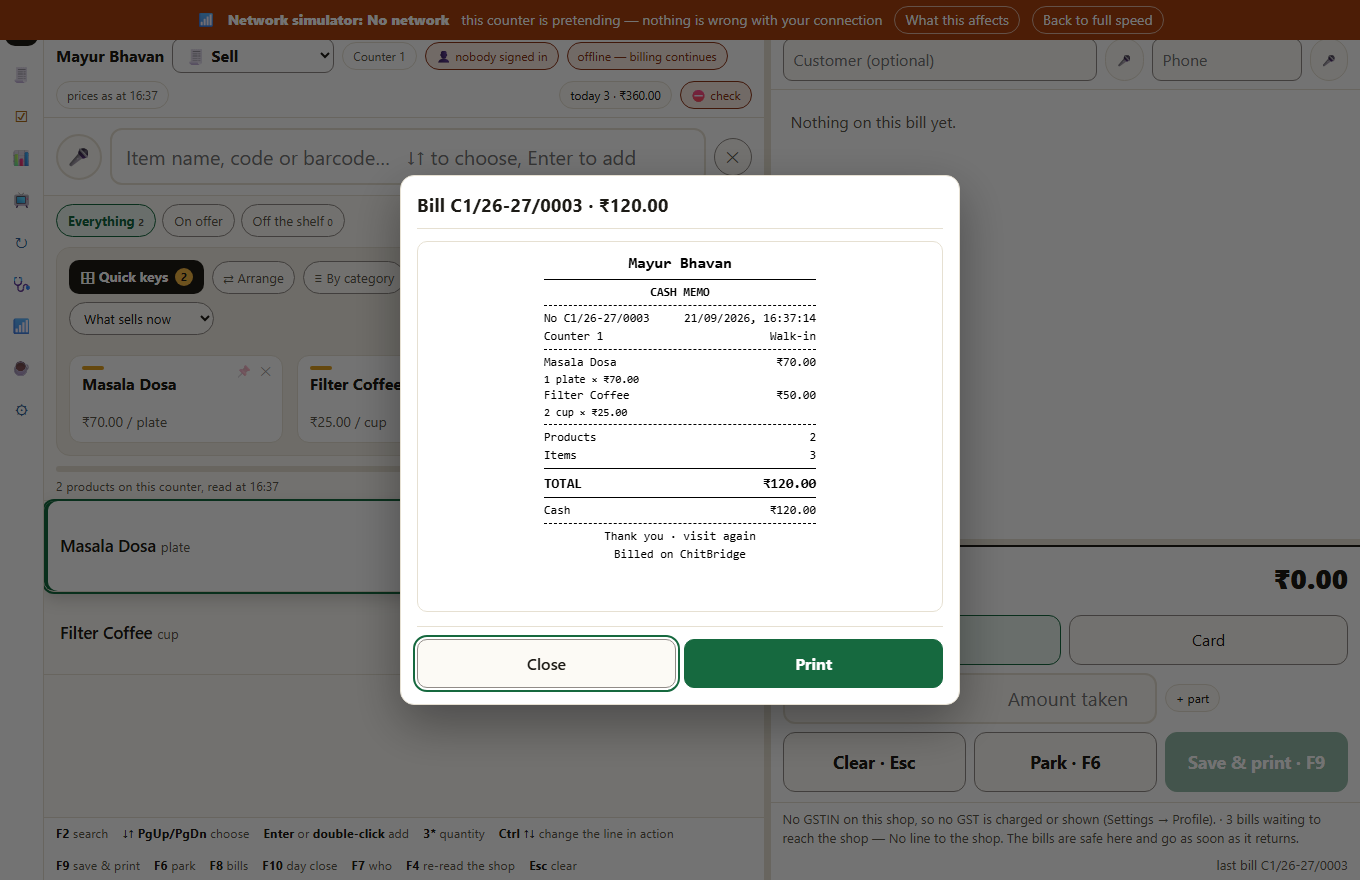
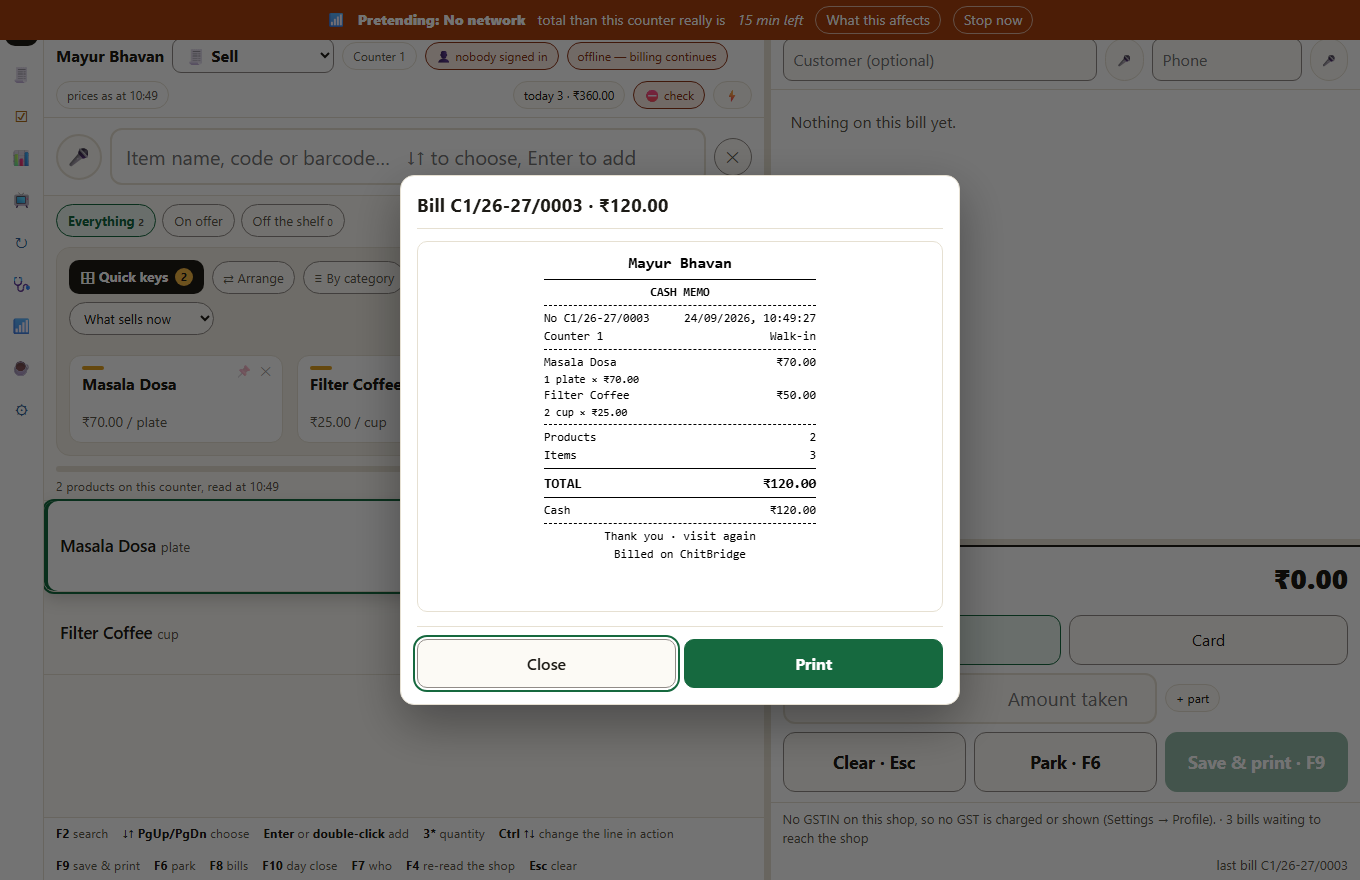
Phase 4.1: vendor lineUp(), new till-lineup.cjs test
Vendored till.html from chitbridge-api (lineUp() migration). Added
e2e/till-lineup.cjs, the dedicated before/after test for this item: proves
navigator.onLine can stay true while three real sends fail and the page
still believes the line is down (hub chip, CloudHost.tillGet skip the
doomed fetch), and that a real interface drop still overrides a good
recent run. Updated till-netsim.cjs's stale "34 places" comment to match.
Screenshot diffs are from re-running the harnesses, not content changes.

Claude-Session: https://claude.ai/code/session_017uqXYS4i4jpqCE9pJcP691

diff --git a/public/till.html b/public/till.html
@@ -4193,9 +4193,11 @@ function netNow(){ var k = ls.get(netKey(), 'full'); return NETS[k] ? k : 'full'
 function netIs(){ return NETS[netNow()]; }
 
 /**
- * ⚠⚠ navigator.onLine IS OVERRIDDEN, and that is what makes this faithful. The page asks it in 34 places
- * — whether to queue a bill, whether to offer Send now, whether to try at all. Slowing fetch alone would leave
- * every one of them believing the line was fine, and produce behaviour no real outage causes.
+ * ⚠⚠ navigator.onLine IS OVERRIDDEN, and that is what makes this faithful. Whether to queue a bill, whether
+ * to offer Send now, whether to try at all — almost every one of those now asks lineUp() (Phase 4.1), not this
+ * flag directly, but lineUp() and lineState() still bottom out on it as the hard "no interface" floor, so the
+ * override is exactly as load-bearing as before. Slowing fetch alone would leave every one of them believing
+ * the line was fine, and produce behaviour no real outage causes.
  * ⚠ Installed ONCE and only when needed; the original is kept so full speed is genuinely the browser's own.
  */
 var NET_REAL_ONLINE = null;
@@ -4475,7 +4477,7 @@ var CloudHost = {
       return { count: count2, total: total2, by: by2, refunds: back2 };
     })();
     var by = t.by, total = t.total, count = t.count, back = t.refunds;
-    return { snapshot: snap || null, online: navigator.onLine && !!this.key, queued: queue.length,
+    return { snapshot: snap || null, online: lineUp() && !!this.key, queued: queue.length,
              today: { count: count, total: total, by: by, returns: r2(back) },
              till: { id: ls.get('cb_till_id','C1'), name: ls.get('cb_till_name','Counter 1'), host: 'this device' },
              engines: { offers: !!window.CBOffers, tax: !!window.CBTax, search: !!window.CBSearch, gs1: !!window.CBGS1, lots: !!window.CBLots, nums: !!window.CBNums, rewards: !!window.CBRewards } };
@@ -4593,7 +4595,7 @@ var CloudHost = {
     return all.filter(function(b){ return String(b.at||'').slice(0,10) === day; }).sort(function(a,b){ return String(b.at).localeCompare(String(a.at)); });
   },
   async history(days){
-    if (!this.key || !navigator.onLine) return { bills: [], offline: true };
+    if (!this.key || !lineUp()) return { bills: [], offline: true };
     try {
       var r = await fetchBy(this.api + '/api/till/bills?days=' + (days||30) + '&limit=200', { headers:{ 'X-Api-Key': this.key } }, SLOW);
       if (!r.ok) return { bills: [], offline: true, why: 'HTTP ' + r.status };
@@ -4616,7 +4618,7 @@ var CloudHost = {
   },
   /** the open orders, straight from ChitBridge — a device holds no copy of them, because an order changes while you are packing it */
   async tasks(kind){
-    if (!this.key || !navigator.onLine) return { tasks: [], offline: true };
+    if (!this.key || !lineUp()) return { tasks: [], offline: true };
     try {
       var r = await fetchBy(this.api + '/api/till/tasks?kind=' + encodeURIComponent(kind), { headers: { 'X-Api-Key': this.key } });
       if (!r.ok) return { tasks: [], offline: true, why: 'HTTP ' + r.status };
@@ -4631,7 +4633,7 @@ var CloudHost = {
    */
   /** remembering what a supplier calls a product needs the line — it is a fact about the shop, not about this device */
   async alias(a){
-    if (!this.key || !navigator.onLine) return { ok:false, why:'this needs the internet — the count is not affected' };
+    if (!this.key || !lineUp()) return { ok:false, why:'this needs the internet — the count is not affected' };
     try {
       var r = await fetchBy(this.api + '/api/till/alias', { method:'POST',
         headers:{ 'Content-Type':'application/json', 'X-Api-Key': this.key }, body: JSON.stringify(a) });
@@ -4640,7 +4642,7 @@ var CloudHost = {
   },
   /** what was just said, as words — the audio goes up, nothing comes back but text, and nothing is kept anywhere */
   async listen(b){
-    if (!this.key || !navigator.onLine) return { ok:false, why:'this needs the internet' };
+    if (!this.key || !lineUp()) return { ok:false, why:'this needs the internet' };
     try {
       var r = await fetchBy(this.api + '/api/till/listen', { method:'POST',
         headers:{ 'Content-Type':'application/json', 'X-Api-Key': this.key }, body: JSON.stringify(b) });
@@ -4656,7 +4658,7 @@ var CloudHost = {
    */
   /** ⚠ NOT QUEUED. A read has nothing to replay, and a suggestion computed from last week is worse than none. */
   async tillGet(path){
-    if (!this.key || !navigator.onLine) return { ok:false, why:'offline' };
+    if (!this.key || !lineUp()) return { ok:false, why:'offline' };
     try {
       var r = await fetchBy(this.api + path, { headers:{ 'X-Api-Key': this.key } });
       if (!r.ok) return { ok:false, why:'ChitBridge refused it (' + r.status + ')', status:r.status };
@@ -4671,7 +4673,7 @@ var CloudHost = {
   async tillPost(path, body, opts){
     var noQueue = !!(opts && opts.noQueue);
     if (!this.key) return { ok:false, why:'this counter is not paired' };
-    if (navigator.onLine) {
+    if (lineUp()) {
       try {
         var r = await fetchBy(this.api + path, { method:'POST',
           headers:{ 'Content-Type':'application/json', 'X-Api-Key': this.key }, body: JSON.stringify(body) });
@@ -4692,7 +4694,7 @@ var CloudHost = {
     return { ok:true, queued:true };
   },
   async verify(){
-    if (!this.key || !navigator.onLine) return { ok:false, why:'this needs the internet' };
+    if (!this.key || !lineUp()) return { ok:false, why:'this needs the internet' };
     try {
       var r = await fetchBy(this.api + '/api/till/verify', { headers:{ 'X-Api-Key': this.key } });
       return r.ok ? Object.assign({ ok:true }, await r.json()) : { ok:false, why:'HTTP ' + r.status };
@@ -4812,7 +4814,7 @@ var CloudHost = {
     if (!this.key) { this.last = { at: Date.now(), tried: 0, sent: 0,
       why: 'This counter has no key yet — pair it from the shop, then the bills will go.' };
       try { await queueTally(); paintStatus(); } catch (_) {} return; }
-    if (!navigator.onLine) { this.last = { at: Date.now(), tried: 0, sent: 0,
+    if (!lineUp()) { this.last = { at: Date.now(), tried: 0, sent: 0,
       why: 'No line to the shop. The bills are safe here and go as soon as it returns.' };
       try { await queueTally(); paintStatus(); } catch (_) {} return; }
     this._busy = true;
@@ -5469,7 +5471,7 @@ async function load(){
   /* ⚠ A NEW COUNTER READS ITS SHOP BY ITSELF (2026-09-17). A counter opened for the first time, online and keyed, used to sit on
      "No copy of the shop yet — press ↻" — a button to press for the one thing it obviously has to do. Once per page, so a shop
      that cannot be read does not loop; refresh() calls load() again. */
-  if (!S && !FIRST_READ && HOST.mode === 'cloud' && CloudHost.key && navigator.onLine !== false) { FIRST_READ = true; refresh().catch(function(){}); }
+  if (!S && !FIRST_READ && HOST.mode === 'cloud' && CloudHost.key && lineUp()) { FIRST_READ = true; refresh().catch(function(){}); }
   /**
    * ⭐⭐⭐ R1 · "YOU HAD A BILL OPEN…" — HERE, not at boot. load() is where the shop arrives, and the lines have
    * to be re-priced through the offers engine before anybody is shown a total. Once per page (DRAFT_ASKED):
@@ -7115,7 +7117,7 @@ async function dayStepRun(id){
   }
   if (id === 'products') {
     /* ⭐ the practical half of the old beginDay — bring the shop up to date if the line is there */
-    if (navigator.onLine && HOST && HOST.refresh) await refresh();
+    if (lineUp() && HOST && HOST.refresh) await refresh();
     return;
   }
   if (id === 'counter') {
@@ -8256,7 +8258,7 @@ function sureClose(){ var d = document.getElementById('suredlg'); if (d && d.ope
  * ⚠ The order is fixed — line → waiting → needs you — so the eye learns where to look.
  */
 function hubChips(){
-  var online = navigator.onLine !== false;
+  var online = lineUp();
   var queued = Number((STATE && STATE.queued) || 0);
   var alerts = alertCount();
   var out = '';
@@ -8272,7 +8274,7 @@ function hubChips(){
 }
 function paintMenu(){
   var m = document.getElementById('tillmenu'); if (!m) return;
-  var online = navigator.onLine, who = (typeof WHO !== 'undefined' && WHO && WHO.name) || '';
+  var online = lineUp(), who = (typeof WHO !== 'undefined' && WHO && WHO.name) || '';
   /* ⭐ WIDE TAKES THE RENDER'S ONE-LINE HEAD (hubHead); a phone keeps the stack HubPhone.png draws — title,
      then the pink sign-in box full width, then the chips on their own row. */
   /* ⚠ the finder is on BOTH shapes until Athi decides — no render has one, and MenuPalette (type-to-find) is
@@ -9443,7 +9445,7 @@ async function quickOtherCounters(){
   /* ⚠ [] IS TRUTHY. Caching it on a five-second outage meant the "also mark on…?" prompt was never offered
      again for the life of the page (critic pass, 2026-09-18). Only a real answer is remembered. */
   if (QUICK_OTHER_COUNTERS && QUICK_OTHER_COUNTERS.length) return QUICK_OTHER_COUNTERS;
-  if (!HOST || !HOST.tillGet || !navigator.onLine) return [];
+  if (!HOST || !HOST.tillGet || !lineUp()) return [];
   try {
     var r = await HOST.tillGet('/api/till/counters');
     var mine = (r && r.me) || '';
@@ -9498,7 +9500,7 @@ async function quickPushHide(id){
  */
 var QUICK_HIDDEN_SYNCED_AT = 0;
 async function quickSyncHidden(){
-  if (!HOST || !HOST.tillGet || !navigator.onLine) return;
+  if (!HOST || !HOST.tillGet || !lineUp()) return;
   if (Date.now() - QUICK_HIDDEN_SYNCED_AT < 30000) return;
   QUICK_HIDDEN_SYNCED_AT = Date.now();
   try {
@@ -9550,7 +9552,7 @@ async function quickSyncHidden(){
  */
 var SCREENC_AT = 0;
 async function quickSyncScreen(){
-  if (!HOST || !HOST.tillGet || !navigator.onLine) return;
+  if (!HOST || !HOST.tillGet || !lineUp()) return;
   if (Date.now() - SCREENC_AT < 60000) return;
   SCREENC_AT = Date.now();
   try {
@@ -9605,7 +9607,7 @@ function groupsAll(){
 /** a name this counter has not edited still belongs to the shop — said out loud, so "delete" is not a lie */
 function groupIsShop(name){ return !!shopGroups()[name] && !(tillOpt().groups || {})[name]; }
 async function quickSyncGroups(){
-  if (!HOST || !HOST.tillGet || !navigator.onLine) return;
+  if (!HOST || !HOST.tillGet || !lineUp()) return;
   if (Date.now() - SHOPG_AT < 60000) return;
   SHOPG_AT = Date.now();
   try {
@@ -14567,7 +14569,7 @@ var MIC_FOR = { q: 'mic', cphone: 'micphone', cname: 'micname', todoin: 'mictodo
 function listen(into){
   var ear = whoListens();
   if (!ear) { say('This device cannot listen. Chrome on a phone, a tablet or Windows can — or turn speaking on in ⚙.'); return; }
-  if (!navigator.onLine) { say('Speaking needs the internet — the audio has to reach a speech service. Type it for now; billing itself works offline.'); return; }
+  if (!lineUp()) { say('Speaking needs the internet — the audio has to reach a speech service. Type it for now; billing itself works offline.'); return; }
   /* ⭐ HEARING WINS (design-handoff §5.1: "speaking back stops the instant the mic starts hearing… it never
      talks over the person"). Cancelling here, not just in voiceSay(), means the till goes quiet the moment
      the mic is pressed, not on whatever sentence voiceSay() happens to be mid-way through next. */
@@ -16726,6 +16728,19 @@ function lineState(){
   return { state:st, rate:rate, tries:LINE_TRIES.slice(), since:LINE_SINCE };
 }
 /**
+ * ⭐⭐⭐ THE SINGLE "IS IT WORTH TRYING" ANSWER (Phase 4.1). Everywhere in this file that used to ask
+ * navigator.onLine before attempting a send, showing a badge, or deciding what queues now asks this instead —
+ * the same formula the WATCH panel already proved right ([TILL-144]): a definite no from the device beats
+ * everything, but short of that, "online" from the interface is only ever "maybe", and the last twenty real
+ * sends are what actually answers it.
+ * ⚠ NOT EVERYWHERE. The probe that FEEDS lineState() (keyWatch's nag-guard aside), the WATCH snapshot's own
+ * already-reasoned online/line pair, and the raw forensic dumps a support person reads keep asking the device
+ * directly — this name is for belief and gating, not for recording evidence or reporting ground truth.
+ */
+function lineUp(){
+  return navigator.onLine === false ? false : (lineState().state !== 'none');
+}
+/**
  * ⭐⭐ §2 "RIGHT NOW" — 3.8 Mbps · 190 ms · 0 of the last 20 sends failed (Phase 3.4). Averaged over the
  * OK tries only — a failed one measures how long it waited to give up, not how fast the line is.
  * ⚠ NO THROUGHPUT NUMBER — a counter's own calls are small (a bill, a snapshot delta), so what this page can
@@ -16776,7 +16791,7 @@ var KEY_OK = true, KEY_ASKED = 0, KEY_EVERY_MS = 600000;
 async function keyWatch(){
   try {
     if (!HOST || !HOST.verify || !HOST.key) return;
-    if (navigator.onLine === false) return;                 /* nothing to learn from a dead line */
+    if (!lineUp()) return;                 /* nothing to learn from a dead line */
     if (Date.now() - KEY_ASKED < KEY_EVERY_MS) return;
     KEY_ASKED = Date.now();
     var v = await HOST.verify();
@@ -19718,7 +19733,7 @@ async function renumberBill(bill, why){
  */
 var ABSORB_AT = 0;
 async function checkAbsorbed(force){
-  if (!(HOST && HOST.key) || !navigator.onLine || !HOST.tillPost) return null;
+  if (!(HOST && HOST.key) || !lineUp() || !HOST.tillPost) return null;
   if (!force && Date.now() - ABSORB_AT < 600000) return null;
   ABSORB_AT = Date.now();
   var cutoff = Date.now() - 30 * 86400000;
@@ -19796,7 +19811,7 @@ async function closeReadinessNow(){
 async function closeCounter(already){
   if (!(HOST && HOST.key)) { say('This counter is not paired, so there is nothing to close.'); return; }
   if (HOST === AgentHost) { say('This counter runs through the program on this PC. Close it from ChitBridge → Settings → Integrations → Counters.'); return; }
-  if (!navigator.onLine) { say('Closing a counter needs the internet — ChitBridge has to be told, and every bill has to be checked first.\n\nNothing has changed. Try again when the line is back.'); return; }
+  if (!lineUp()) { say('Closing a counter needs the internet — ChitBridge has to be told, and every bill has to be checked first.\n\nNothing has changed. Try again when the line is back.'); return; }
   /**
    * ⭐⭐⭐ THE CONFIRM SHEET SHOWS THE LIVE NUMBERS, NOT A CLAIM (§3) — "Billing stops until someone opens
    * it again. Nothing is lost." is the consequence line; the three rows under it are read at the moment the
@@ -20010,7 +20025,7 @@ async function openStuck(){
         var till = sc.indexOf('till') >= 0;
         return line('What the key may do', till ? 'billing (till)' : (esc(sc.join(', ')) + ' — NOT billing'), !till);
       })()
-    + line('Online', navigator.onLine ? 'yes' : 'NO', !navigator.onLine)
+    + line('Online', lineUp() ? 'yes' : 'NO', !lineUp())
     /**
      * ⭐ CAN THIS DEVICE SAVE ANYTHING AT ALL. Athi, 2026-09-16, on two parked bills that would not go: *"this
      * may be the reason for the sync not working."* A full or blocked localStorage fails every setting, the
@@ -20060,7 +20075,7 @@ async function openStuck(){
       + 'the pairing, the settings and the parked bills cannot be written, so they come back or disappear. '
       + 'Usually the browser is out of space or is in a private window.';
   else if (!(HOST && HOST.key)) verdict = 'This counter has no key, so nothing can be sent. Pair it from the shop.';
-  else if (!navigator.onLine) verdict = 'No line to the shop. The bills are safe here and go as soon as it returns.';
+  else if (!lineUp()) verdict = 'No line to the shop. The bills are safe here and go as soon as it returns.';
   else if (qMine.length) verdict = qMine.length + ' bill(s) are waiting to go. The reason from the last attempt is below.';
   /**
    * ⚠⚠ AN EMPTY QUEUE IN *THIS* COPY IS NOT AN EMPTY COUNTER. Pairing again starts a new database named after
@@ -20376,7 +20391,7 @@ async function rescueOrphans(){
     try { await new Promise(function(res){ var rq = indexedDB.deleteDatabase(take[m].name); rq.onsuccess = res; rq.onerror = res; rq.onblocked = res; }); } catch (_) {}
   }
   try { await queueTally(); paintStatus(); } catch (_) {}
-  if (queued && HOST && HOST.key && navigator.onLine) { try { await HOST.drain(); } catch (_) {} }
+  if (queued && HOST && HOST.key && lineUp()) { try { await HOST.drain(); } catch (_) {} }
   /* ⭐ a brought-in bill that SAYS sent is checked now — an absorbed one is renumbered and sent (option a) */
   var chk = null;
   try { chk = await checkAbsorbed(true); } catch (_) {}
@@ -20542,7 +20557,7 @@ async function wipeDevice(){
  */
 async function stuckSend(){
   if (!(HOST && HOST.key)) { toastLine('This counter is not signed in, so nothing can reach the shop. Use 📋 Copy the report.'); return; }
-  if (!navigator.onLine) { toastLine('No line to the shop, so it cannot be sent. Use 💾 Save it as a file.'); return; }
+  if (!lineUp()) { toastLine('No line to the shop, so it cannot be sent. Use 💾 Save it as a file.'); return; }
   var owner = null, rawQ = [], rawB = [];
   try { owner = await DB.ownerRaw(); rawQ = await DB.allRaw('queue'); rawB = await DB.allRaw('bills'); } catch (_) {}
   var qF = rawQ.filter(function(r){ return !rowIsMine(r); });
@@ -20637,11 +20652,11 @@ async function releaseQueue(){
   /* 3 · and try, now, with the reason kept if it refuses */
   var before = ((await DB.all('queue')) || []).length;
   if (!(HOST && HOST.key)) did.push('this counter has no key, so nothing could be sent — pair it from the shop');
-  else if (!navigator.onLine) did.push('there is no line to the shop, so nothing could be sent — it will go on its own when the line is back');
+  else if (!lineUp()) did.push('there is no line to the shop, so nothing could be sent — it will go on its own when the line is back');
   else { try { await HOST.drain(); } catch (_) {} }
   var after = ((await DB.all('queue')) || []).length;
   if (before && before > after) did.push('sent ' + (before - after) + ' bill(s)');
-  else if (before && HOST && HOST.key && navigator.onLine) {
+  else if (before && HOST && HOST.key && lineUp()) {
     did.push('tried ' + before + ' bill(s) and none went — ' + ((HOST.last && HOST.last.why) || 'no reason was given'));
   }
   if (!before && !qF.length) did.push('there was nothing waiting');
@@ -21177,7 +21192,7 @@ async function coldStart(already){
   busyShow('Starting this counter from scratch…');
   /* 1 · send everything */
   busyAt(0, 0, 'Sending anything still waiting…');
-  if (navigator.onLine) { try { await HOST.drain(); } catch (_) {} }
+  if (lineUp()) { try { await HOST.drain(); } catch (_) {} }
 
   /**
    * 2 · and PROVE it went
@@ -21219,7 +21234,7 @@ async function coldStart(already){
  * asked for on purpose, and it reports back either way — a button that appears to do nothing is worse than no button.
  */
 async function sendNow(){
-  if (!navigator.onLine) { toastLine('Still no line to the shop — the bills are safe here and will go as soon as it returns.'); return; }
+  if (!lineUp()) { toastLine('Still no line to the shop — the bills are safe here and will go as soon as it returns.'); return; }
   /* ⚠ NEVER ASSUME THE HOST HAS ONE. It threw on the desktop counter for as long as this button has existed —
      an unhandled rejection, no toast, nothing on screen. A missing capability must be said, not thrown. */
   if (!HOST || typeof HOST.drain !== 'function') {
@@ -21609,7 +21624,7 @@ function signState(){
            /* ⚠ null scopes is "we cannot tell from here", which is NOT "the wrong kind of key" */
            till: sc ? sc.indexOf('till') >= 0 : true,
            person: !!(typeof WHO !== 'undefined' && WHO && WHO.name),
-           online: !!navigator.onLine };
+           online: lineUp() };
 }
 
 /**
@@ -21747,7 +21762,7 @@ function paintBreak(){
 /** tell ChitBridge, so the shop's Counters screen can say "on break" — best effort, a break never waits for the line */
 function breakTell(state){
   try {
-    if (HOST && HOST.tillPost && HOST.key && navigator.onLine)
+    if (HOST && HOST.tillPost && HOST.key && lineUp())
       HOST.tillPost('/api/till/state', { state: state, by: (WHO && WHO.name) || null,
                                          since: BREAK ? BREAK.since : new Date().toISOString() }, { noQueue: true });
   } catch (_) {}
@@ -22399,7 +22414,7 @@ function bellWatch(){
 var BELL = null, BELL_AT = 0;
 async function bellUp(){
   try {
-    if (BELL || !navigator.onLine) return;
+    if (BELL || !lineUp()) return;
     if (!(HOST && HOST.mode === 'cloud' && CloudHost.key)) return;   /* the desktop kit refreshes on its own schedule */
     if (Date.now() - BELL_AT < 20000) return;                        /* do not thrash a server that is refusing */
     BELL_AT = Date.now();
